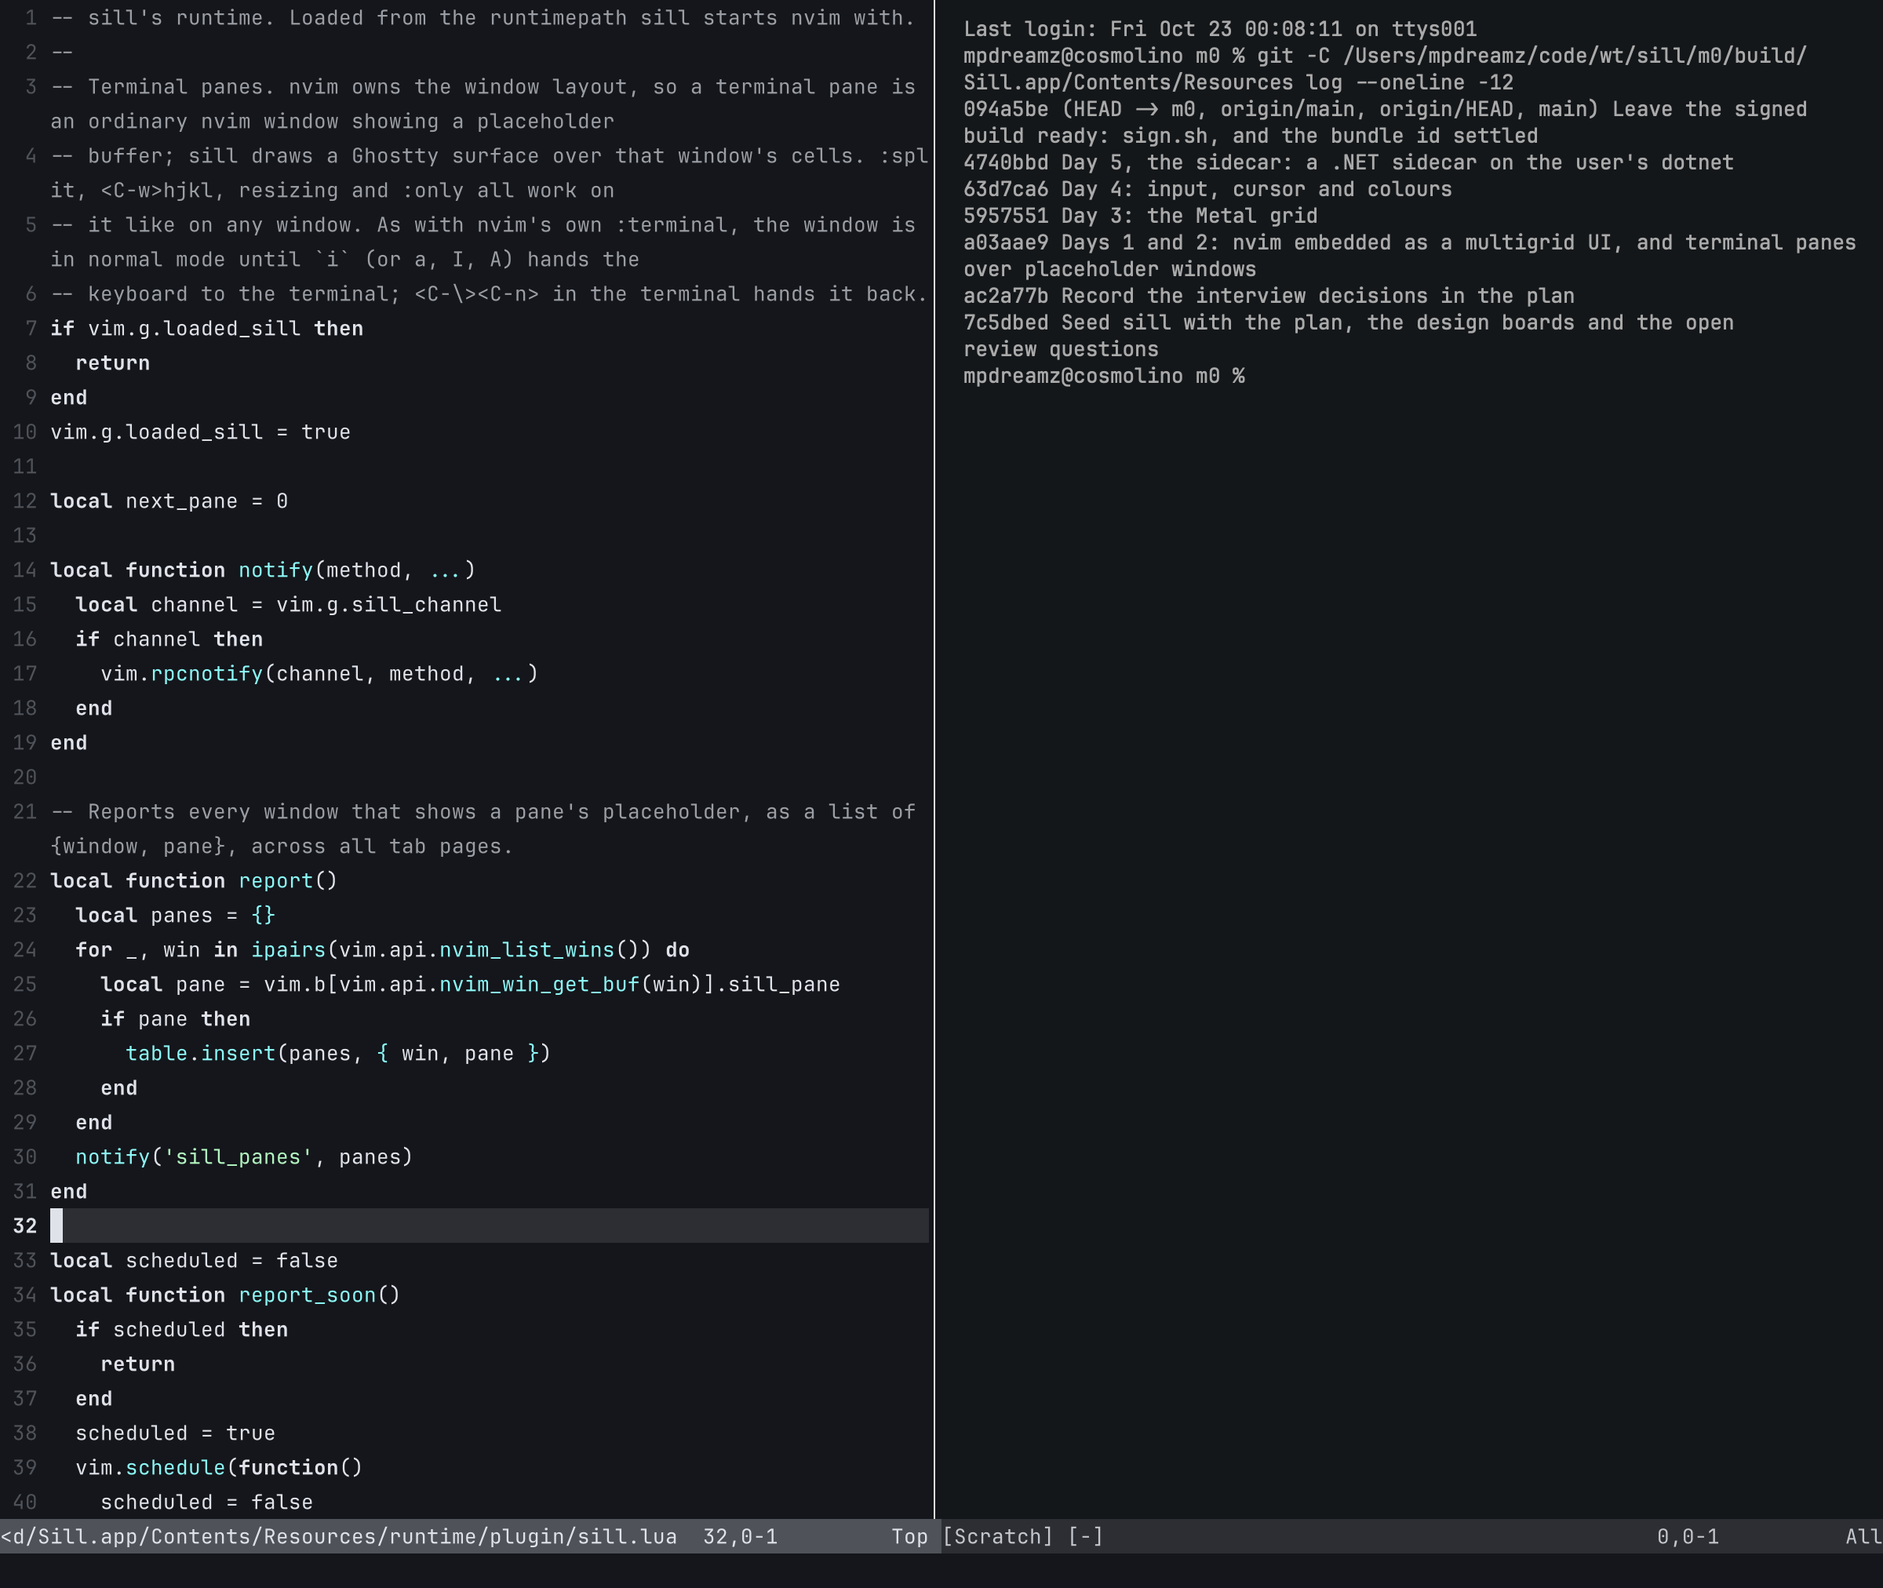
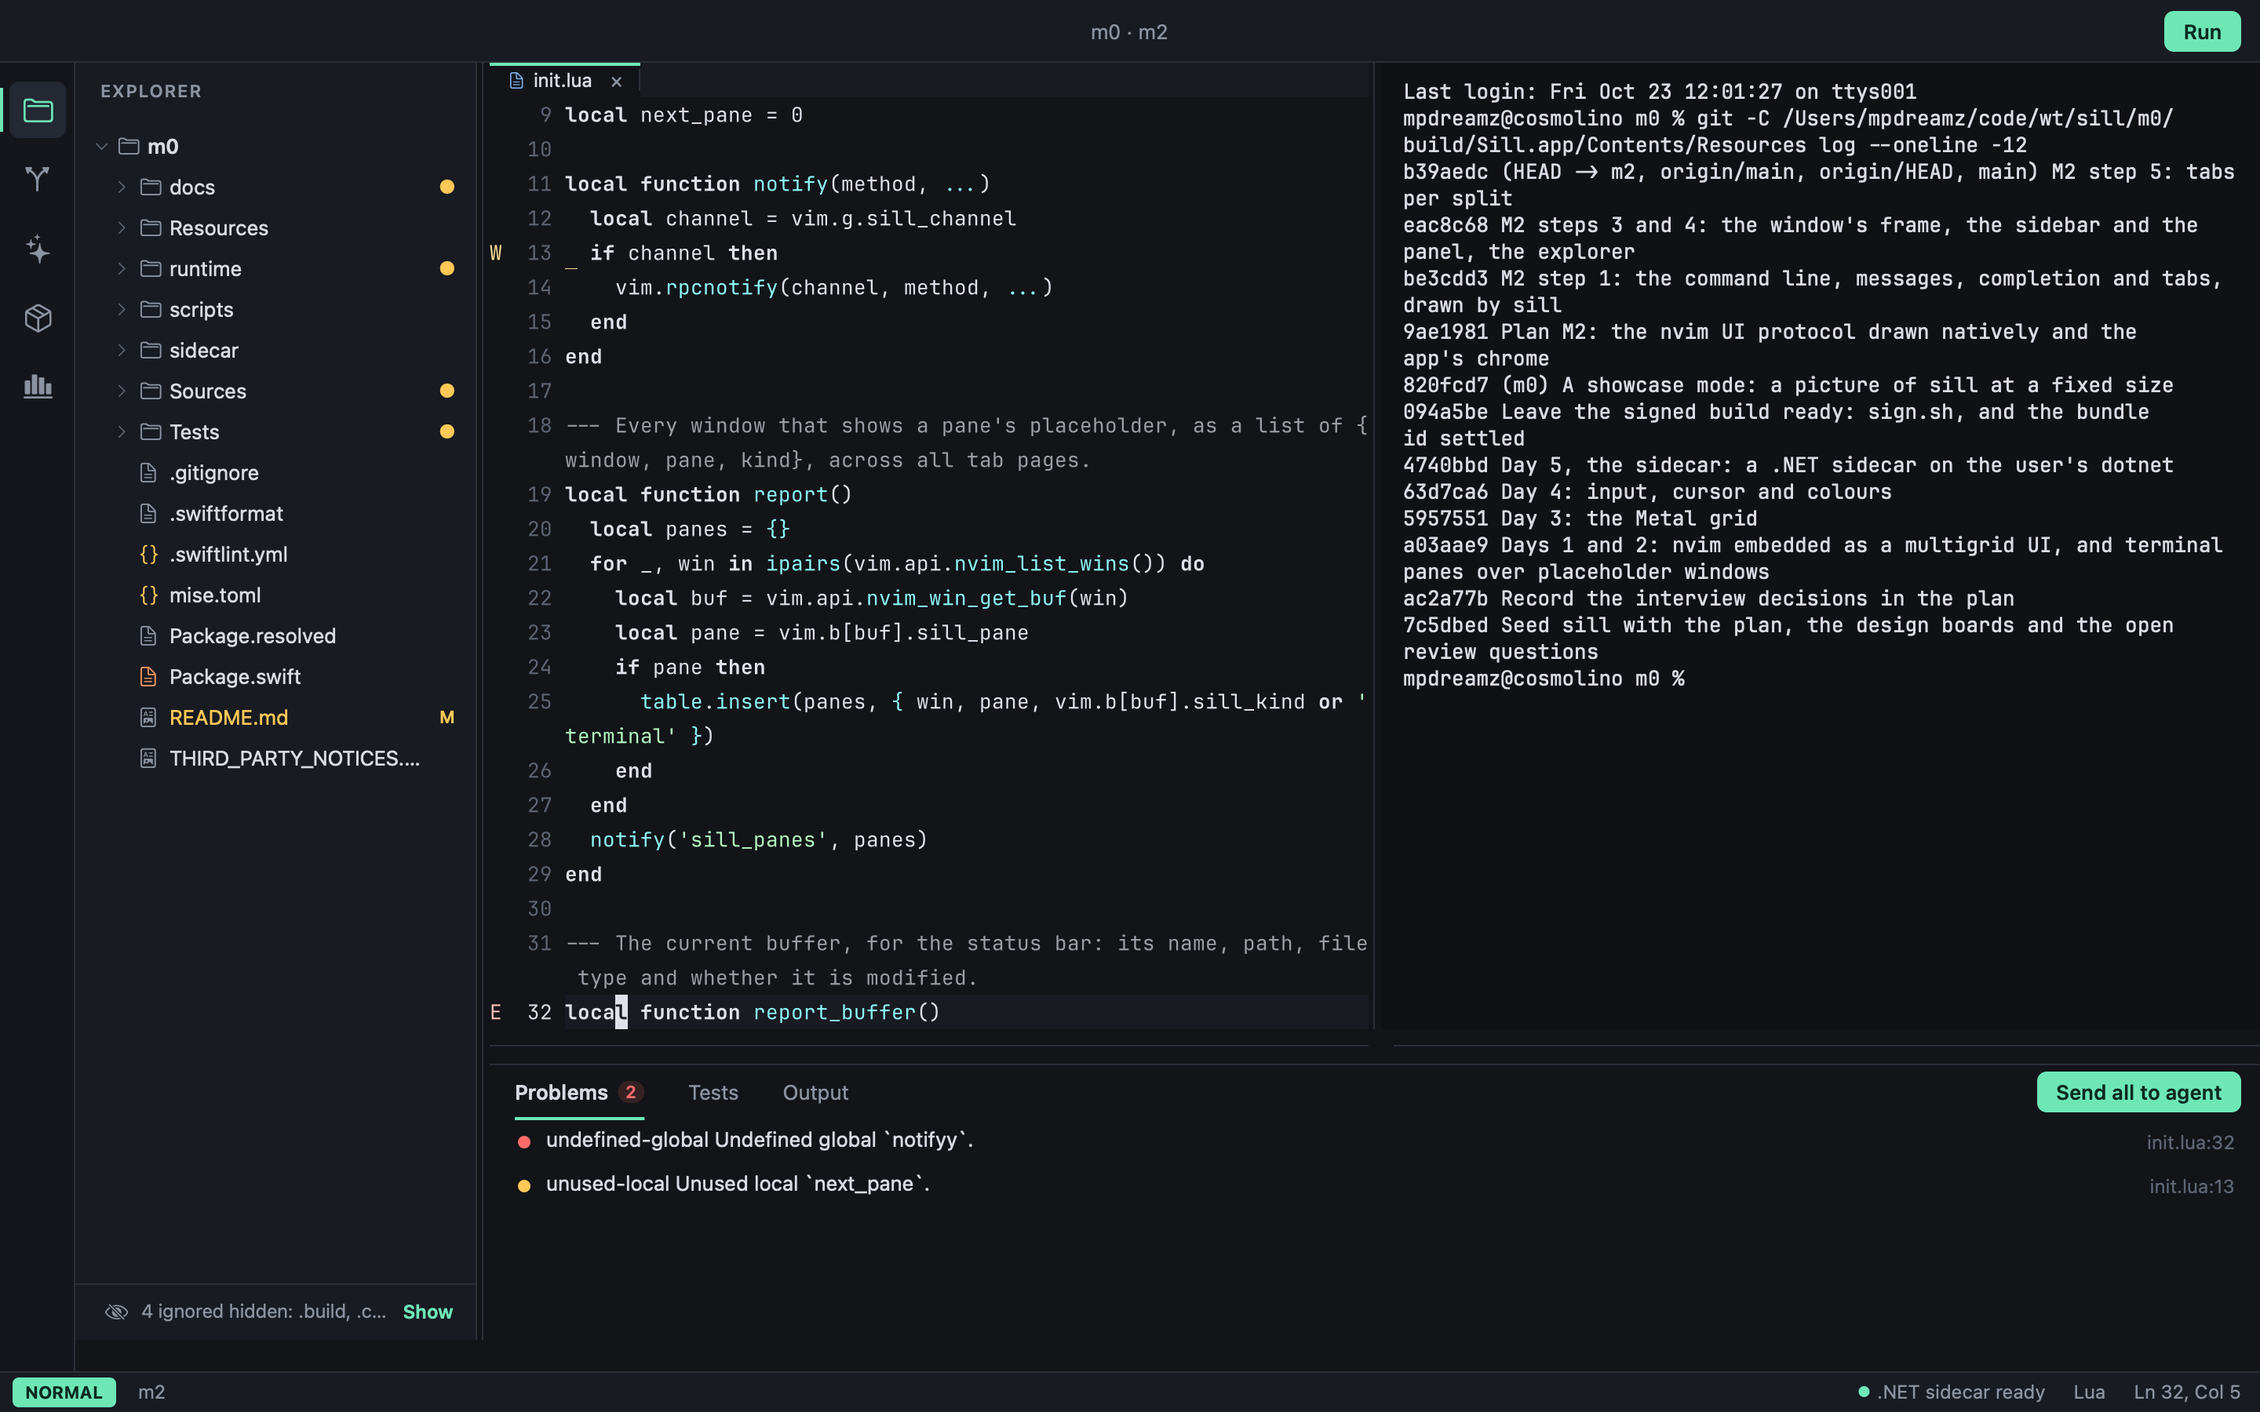
Source control and :SillDiff; M2's state in the plan
The sidebar's source control view lists git's changes; Return opens a file,
a modified one beside its version at HEAD. :SillDiff [ref] compares the
current file with any ref in nvim's diff mode, the bones of boards 4 to 6.
The plan records where M2 stands: steps 1, 3 to 6 done, smooth scrolling
not. The README's picture is the whole window now.

diff --git a/Sources/SillApp/SourceControlView.swift b/Sources/SillApp/SourceControlView.swift
@@ -1,0 +1,133 @@
+import AppKit
+import MessagePack
+import SillNvim
+
+/// Source control in the sidebar: git's changed files, grouped as git groups them. Return (or a click) opens a file;
+/// a modified one opens beside its version at HEAD (:SillDiff). The bones of boards 4 to 6.
+final class SourceControlView: NSView, ToolContent {
+    struct Entry: Equatable {
+        var path: String
+        var code: String
+    }
+
+    private let channel: NvimChannel
+    private let root: String
+    private(set) var entries: [Entry] = []
+    private(set) var selected = 0
+    private var branch = ""
+
+    init(channel: NvimChannel, root: String) {
+        self.channel = channel
+        self.root = root
+        super.init(frame: .zero)
+        refresh()
+    }
+
+    @available(*, unavailable)
+    required init?(coder _: NSCoder) { fatalError("not used") }
+
+    override var isFlipped: Bool { true }
+    private let rowHeight: CGFloat = 26
+    private let listTop: CGFloat = 34
+
+    func refresh() {
+        let root = root
+        Task.detached {
+            let status = Git.status(in: root), branch = Git.branch(in: root)
+            await MainActor.run { [weak self] in
+                guard let self else { return }
+                // Staged and changed first, untracked last, each by path.
+                let all = status.map { Entry(path: $0.key, code: $0.value) }
+                let changed = all.filter { $0.code != "??" }.sorted { $0.path < $1.path }
+                let untracked = all.filter { $0.code == "??" }.sorted { $0.path < $1.path }
+                entries = changed + untracked
+                self.branch = branch
+                selected = min(selected, max(entries.count - 1, 0))
+                needsDisplay = true
+            }
+        }
+    }
+
+    private func describe(_ code: String) -> (String, NSColor) {
+        if code == "??" { return ("U", Design.accent) }
+        if code.contains("D") { return ("D", Design.error) }
+        if code.contains("A") { return ("A", Design.accent) }
+        if code.contains("R") { return ("R", Design.visual) }
+        return ("M", Design.modified)
+    }
+
+    override func draw(_: NSRect) {
+        Design.chrome.setFill()
+        bounds.fill()
+        let heading = NSAttributedString(
+            string: entries.isEmpty ? "No changes on \(branch)" : "\(entries.count) changed on \(branch)",
+            attributes: [.font: Design.ui(12), .foregroundColor: Design.textMuted]
+        )
+        heading.draw(at: NSPoint(x: 16, y: 8))
+        let focused = (superview as? SidebarView)?.focused ?? false
+        for (index, entry) in entries.enumerated() {
+            let rect = NSRect(x: 0, y: listTop + CGFloat(index) * rowHeight, width: bounds.width, height: rowHeight)
+            guard rect.minY < bounds.height else { break }
+            if index == selected, focused {
+                Design.selection.setFill()
+                rect.fill()
+            }
+            let (letter, color) = describe(entry.code)
+            let name = NSAttributedString(string: (entry.path as NSString).lastPathComponent, attributes: [
+                .font: Design.ui(13), .foregroundColor: Design.text,
+            ])
+            name.draw(at: NSPoint(x: 16, y: rect.midY - name.size().height / 2))
+            let folder = NSAttributedString(string: (entry.path as NSString).deletingLastPathComponent, attributes: [
+                .font: Design.ui(11), .foregroundColor: Design.textFaint,
+            ])
+            folder.draw(
+                with: NSRect(
+                    x: 24 + name.size().width,
+                    y: rect.midY - folder.size().height / 2,
+                    width: max(bounds.width - 60 - name.size().width, 0),
+                    height: folder.size().height
+                ),
+                options: [.usesLineFragmentOrigin, .truncatesLastVisibleLine]
+            )
+            let mark = NSAttributedString(string: letter, attributes: [
+                .font: Design.ui(11, weight: .semibold), .foregroundColor: color,
+            ])
+            mark.draw(at: NSPoint(x: bounds.width - 20 - mark.size().width / 2, y: rect.midY - mark.size().height / 2))
+        }
+    }
+
+    private func open(_ index: Int) {
+        guard entries.indices.contains(index) else { return }
+        let entry = entries[index]
+        let path = (root as NSString).appendingPathComponent(entry.path)
+        Nvim.lua(channel, "require'sill'.open(...)", [.string(path)])
+        if entry.code != "??", !entry.code.contains("A"), !entry.code.contains("D") {
+            Nvim.lua(channel, "require'sill'.diff('HEAD')")
+        }
+    }
+
+    override func mouseDown(with event: NSEvent) {
+        let point = convert(event.locationInWindow, from: nil)
+        let index = Int((point.y - listTop) / rowHeight)
+        guard point.y >= listTop, entries.indices.contains(index) else { return }
+        selected = index
+        open(index)
+        needsDisplay = true
+    }
+
+    func handleKey(_ event: NSEvent) -> Bool {
+        guard event.modifierFlags.isDisjoint(with: [.command, .control, .option]) else { return false }
+        switch event.charactersIgnoringModifiers {
+        case "j", String(UnicodeScalar(NSDownArrowFunctionKey)!): selected = min(
+                selected + 1,
+                max(entries.count - 1, 0)
+            )
+        case "k", String(UnicodeScalar(NSUpArrowFunctionKey)!): selected = max(selected - 1, 0)
+        case "\r", "o": open(selected)
+        case "R": refresh()
+        default: return false
+        }
+        needsDisplay = true
+        return true
+    }
+}

diff --git a/Tests/SillCoreTests/ExternalUITests.swift b/Tests/SillCoreTests/ExternalUITests.swift
@@ -212,3 +212,49 @@ struct SplitTabsTests {
         screen = try await nvim.screen("no tabs left") { $0.windowTabs[left.win]?.tabs.isEmpty == true }
     }
 }
+
+@Suite("compare with a ref", .serialized)
+struct DiffTests {
+    @Test(":SillDiff puts the file's version at HEAD beside it, in diff mode")
+    func diff() async throws {
+        let directory = FileManager.default.temporaryDirectory.appendingPathComponent("sill-diff-\(UUID().uuidString)")
+        try FileManager.default.createDirectory(at: directory, withIntermediateDirectories: true)
+        func git(_ arguments: String...) throws {
+            let process = Process()
+            process.executableURL = URL(fileURLWithPath: "/usr/bin/git")
+            process.arguments = [
+                "-C",
+                directory.path,
+                "-c",
+                "user.email=t@t",
+                "-c",
+                "user.name=t",
+                "-c",
+                "commit.gpgsign=false",
+            ] + arguments
+            process.standardOutput = FileHandle.nullDevice
+            process.standardError = FileHandle.nullDevice
+            try process.run()
+            process.waitUntilExit()
+        }
+        let file = directory.appendingPathComponent("a.txt")
+        try "old line\n".write(to: file, atomically: true, encoding: .utf8)
+        try git("init", "-q")
+        try git("add", ".")
+        try git("commit", "-q", "-m", "first")
+        try "new line\n".write(to: file, atomically: true, encoding: .utf8)
+
+        let nvim = try await Harness.start(cols: 120, rows: 30)
+        defer { Task { await nvim.stop() } }
+        try await nvim.command("edit \(file.path)")
+        try await nvim.command("SillDiff")
+        let screen = try await nvim.screen("two windows") { $0.windows.count == 2 }
+        let (left, right) = (screen.windows[0], screen.windows[1])
+        #expect(screen.grids[left.grid]?.line(0).contains("old line") == true)
+        #expect(screen.grids[right.grid]?.line(0).contains("new line") == true)
+        let diffOn = try await nvim.session.channel.lua(
+            "return vim.tbl_map(function(w) return vim.wo[w].diff end, vim.api.nvim_list_wins())"
+        )
+        #expect(diffOn.arrayValue?.allSatisfy { $0.boolValue == true } == true)
+    }
+}

diff --git a/Sources/SillApp/ToolViews.swift b/Sources/SillApp/ToolViews.swift
@@ -73,6 +73,7 @@ final class SidebarView: NSView {
     private(set) var activity: Activity = .explorer
     private let channel: NvimChannel
     let explorer: ExplorerView
+    let sourceControl: SourceControlView
     private var content: NSView & ToolContent
     var focused = false {
         didSet { if focused != oldValue { needsDisplay = true; content.needsDisplay = true } }
@@ -81,6 +82,7 @@ final class SidebarView: NSView {
     init(channel: NvimChannel, directory: String, metrics: CellMetrics) {
         self.channel = channel
         explorer = ExplorerView(channel: channel, root: directory, metrics: metrics)
+        sourceControl = SourceControlView(channel: channel, root: directory)
         content = explorer
         super.init(frame: .zero)
         addSubview(content)
@@ -97,10 +99,7 @@ final class SidebarView: NSView {
         content.removeFromSuperview()
         content = switch activity {
         case .explorer: explorer
-        case .sourceControl: EmptyStateView(
-                symbol: "arrow.triangle.branch", title: "Source Control",
-                body: "Changed files, staging and compare with any branch, tag or commit (boards 4 to 6) come here."
-            )
+        case .sourceControl: sourceControl
         case .agents: EmptyStateView(
                 symbol: "sparkles", title: "Agents",
                 body: "heed's sessions show here once heed has its control socket (M5). Until then, run an agent in a " +
@@ -115,6 +114,7 @@ final class SidebarView: NSView {
                 body: "CPU and memory profiles of a run: flame graph, call tree, heap diff (boards 7 and 8, M6)."
             )
         }
+        if activity == .sourceControl { sourceControl.refresh() }
         addSubview(content)
         needsLayout = true
         needsDisplay = true

diff --git a/Sources/SillApp/SelfCheck.swift b/Sources/SillApp/SelfCheck.swift
@@ -253,6 +253,13 @@ final class SelfCheck {
         )
         step("each editor window has a strip of its tabs on its winbar row")
 
+        root.activityBar.onSelect?(.sourceControl)
+        let changes = Git.status(in: app.workingDirectory).count
+        try await waitFor("the source control view") {
+            tools.sidebar.activity == .sourceControl && tools.sidebar.sourceControl.entries
+                .count == changes ? true : nil
+        }
+        step("source control lists git's \(changes) changes")
         root.activityBar.onSelect?(.packages)
         try await waitFor("the packages view") { tools.sidebar.activity == .packages ? true : nil }
         try expect(root.activityBar.selected == .packages, "packages selected")

diff --git a/README.md b/README.md
@@ -20,9 +20,9 @@ mise run test      # the Swift Testing suite; the nvim tests start a real `nvim 
 mise run lint
 ```
 
-![sill on 2026-10-23: a Lua file beside a terminal pane](docs/showcase-2026-10-23.png)
+![sill on 2026-10-23: the explorer, a Lua file with its tab, a terminal pane, the Problems panel and the status bar](docs/showcase-2026-10-23.png)
 
-`SILL_SHOWCASE=<file.png>` renders a picture like that one (nvim at 150x46, a file beside a terminal pane running
+`SILL_SHOWCASE=<file.png>` renders a picture like that one (the window at 1440x900, off screen: a file beside a terminal pane running
 `git log`; `SILL_SHOWCASE_FILE` picks the file). `SILL_CHECK=1 build/Sill.app/Contents/MacOS/Sill` plays the first week in the real app, with key events sent through
 the window, and exits non-zero on the first failing step; it also measures idle frames and key-to-screen latency.
 `SILL_CHECK_SHOT=<file.png>` saves the window with a pane open. `mise run bench` measures the Metal grid at 4K on a
@@ -32,7 +32,7 @@ release build. `SILL_FONTS=<dir>` uses the fonts in a directory without installi
 
 `:SillTerminal` opens one (to the right; `:belowright SillTerminal` and other modifiers place it as they place
 `:new`). The pane is an nvim window like any other: `<C-w>hjkl` moves across it, `:resize` and `<C-w>=` size it,
-`:only` and `:q` close it. As with nvim's own `:terminal`, `i` hands the keyboard to the terminal and `<C-\><C-n>`
+`:only` and `:q` close it. The sidebar and the bottom panel are panes too (`:SillChrome` opens them, as the app does). As with nvim's own `:terminal`, `i` hands the keyboard to the terminal and `<C-\><C-n>`
 hands it back; a click on the pane or on the editor does the same.
 
 ## Layout
@@ -44,7 +44,7 @@ hands it back; a click on the pane or on the editor does the same.
 | `Sources/SillInput` | AppKit input in nvim's terms: key notation, mouse modifiers, wheel steps |
 | `Sources/SillRender` | the Metal grid: glyph atlas, instanced passes, render thread; the flame graph's level of detail |
 | `Sources/SillTerminal` | the Ghostty surface, from heed |
-| `Sources/SillApp` | the AppKit app |
+| `Sources/SillApp` | the AppKit app: the frame, the sidebar (explorer, source control), the panel, tabs per split |
 | `runtime/` | sill's nvim runtime (`:SillTerminal`, the placeholder buffers) |
 
 Third-party code and licences: [THIRD_PARTY_NOTICES.md](THIRD_PARTY_NOTICES.md).

diff --git a/docs/plan.md b/docs/plan.md
@@ -137,6 +137,26 @@ this over nvim drawing it); signing and notarizing wait until the owner wants th
 5. Tabs per split (board 1's tab strips): what they list is to be settled when it is built.
 6. Design tokens from the boards (dark first, mint accent, Inter and JetBrains Mono) used by everything above.
 
+Where M2 stands (2026-10-23): steps 1, 3, 4, 5 and 6 are done; step 2, smooth scrolling, is not.
+
+- The command line, messages, completion and tabs are sill's views (step 1).
+- The frame (step 3): a title bar (project and branch, Run), the activity bar, and a status bar (mode, branch,
+  pending keys, the sidecar, file type, line and column) in place of nvim's status lines, which `:SillChrome` turns
+  into rules, with the board's colours for what nvim still draws.
+- Tool views (step 4): the sidebar and the bottom panel are placeholder windows, like terminal panes, so `<C-w>`
+  reaches them; their views take the keys they use (j/k, Return, h/l, `/`) and pass the rest to nvim. The activity
+  bar switches the sidebar: the explorer (tree, git marks, ignored files behind a toggle, `/` filter), source
+  control (git's changes; Return opens a modified file beside its version at HEAD with `:SillDiff`), and empty
+  states naming the board and milestone for agents, packages and the profiler. The panel's Problems tab lists nvim's
+  diagnostics; Tests and Output wait for M3. Send all to agent says it comes with the heed bridge.
+- Tabs per split (step 5), settled as editor groups: each editor window keeps the files opened in it, drawn as a
+  strip over its winbar row (one cell high, lower than the board's).
+- Run guesses the project's command (`swift run`, `dotnet run`, `cargo run`, `npm start`) and runs it in a terminal
+  pane at the bottom.
+- Tokens (step 6) are sampled from board 1 into `Sources/SillApp/Design.swift`. Inter is used when installed, else
+  the system font; JetBrains Mono likewise.
+- `SILL_CHECK=chrome` checks all of it in the app; `SILL_CHECK=1` still runs days 1 to 5 without the chrome.
+
 ## 9. Packaging
 
 - Build, signing and release match heed exactly: same Developer ID, hardened runtime and notarization
